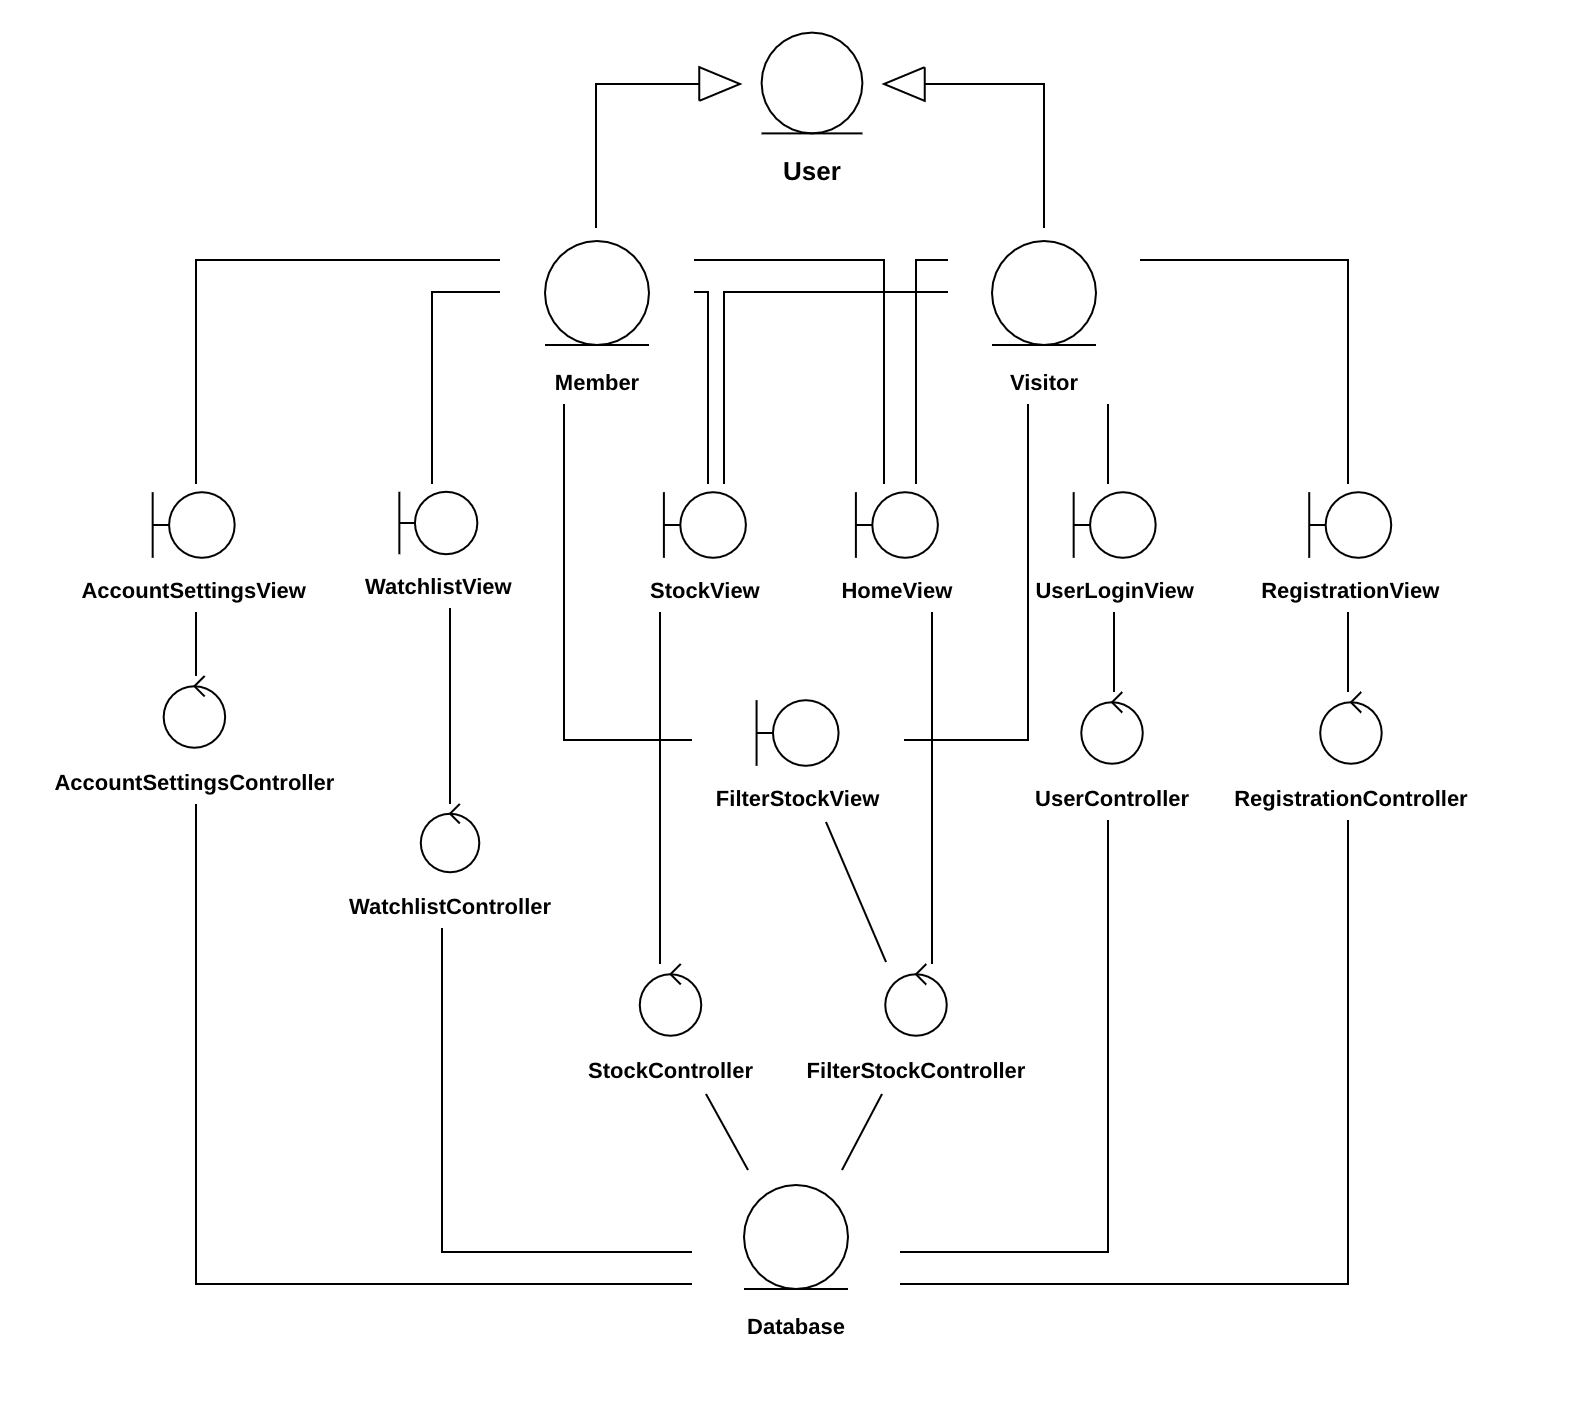
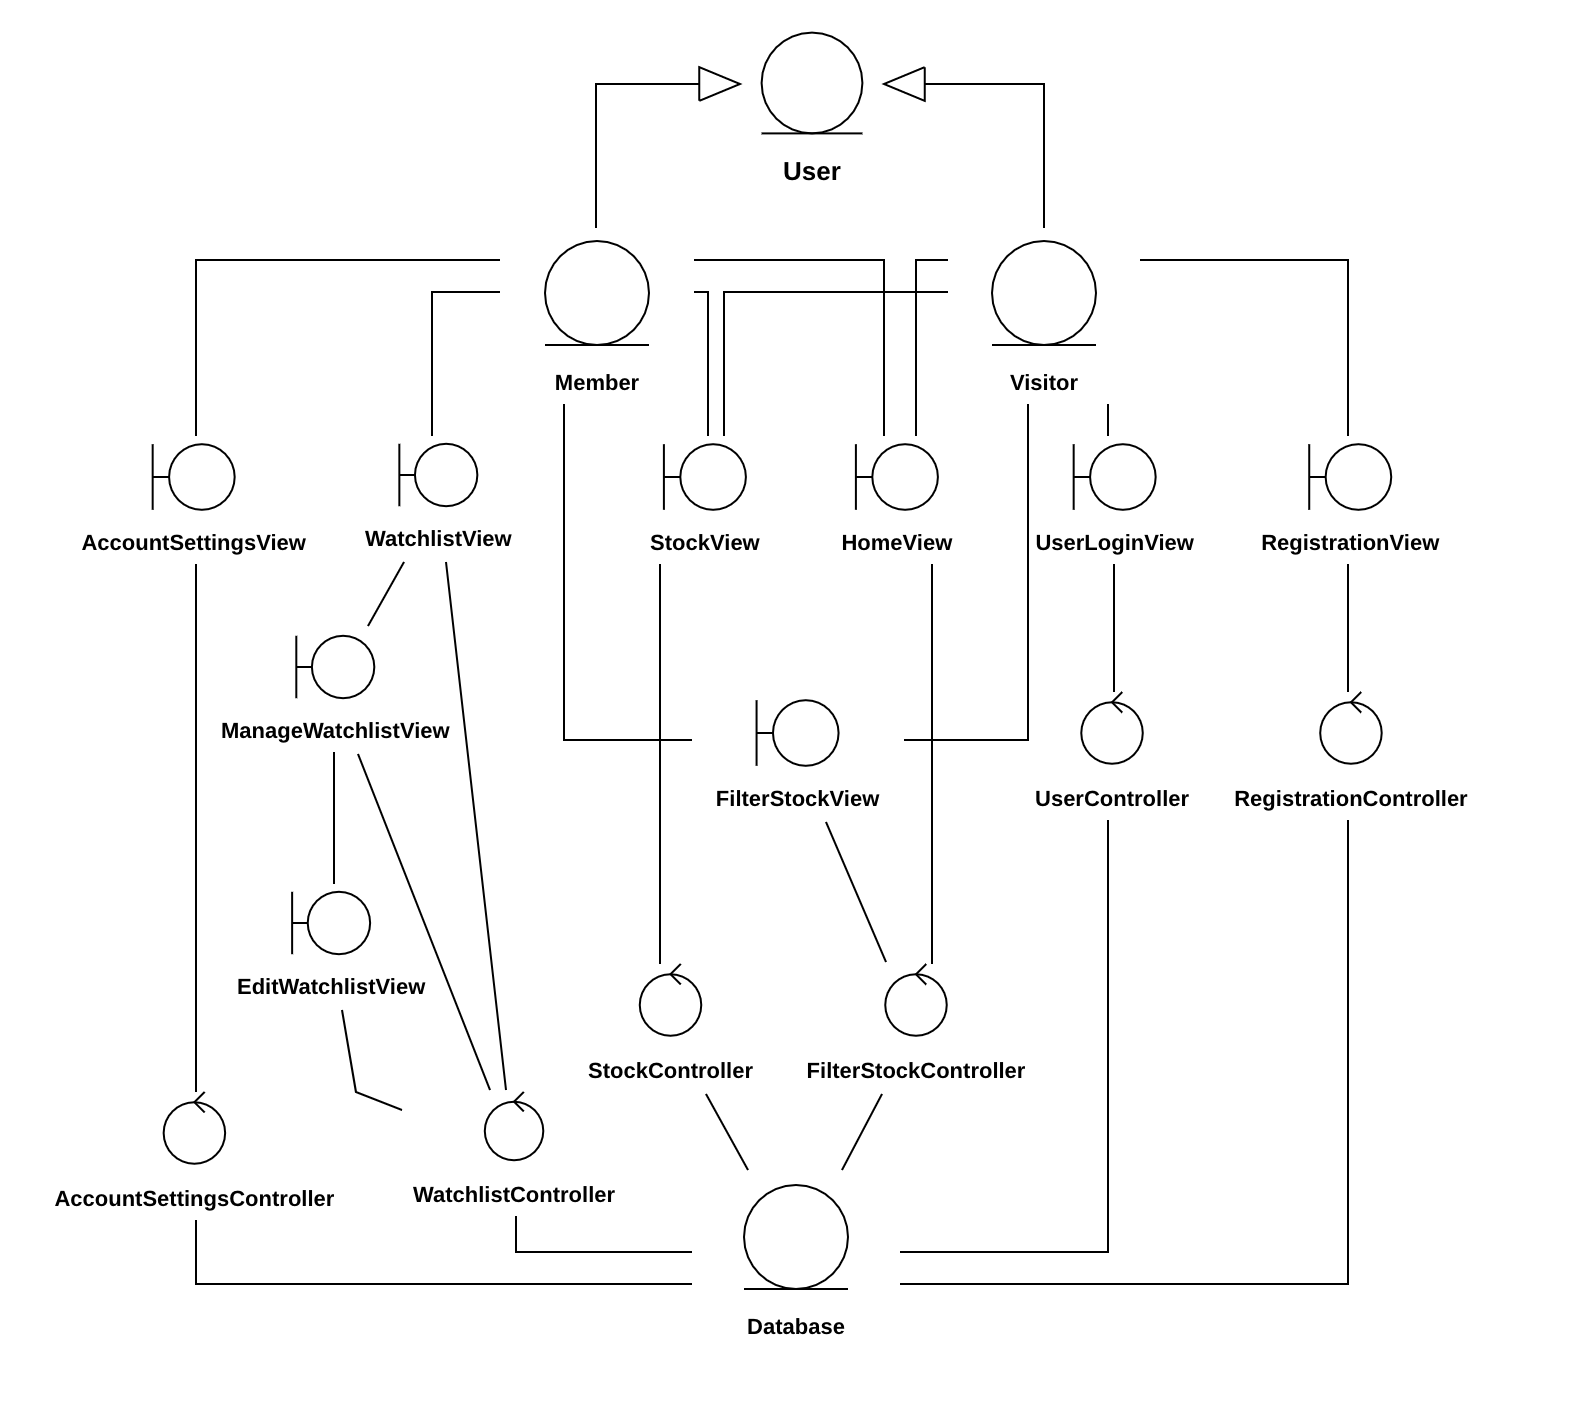
Updates

diff --git a/docs/design.html b/docs/design.html
@@ -34,45 +34,45 @@
 
            <h3>Table of Contents</h3>
             <ul>
-                <li><a href="#1.0.0">Introduction</a></li>
+                <li><a href="#1.0.0">(1.0) Introduction</a></li>
                 <ul>
-                    <li><a href="#1.1.0">Purpose</a></li>
-                    <li><a href="#1.2.0">Scope</a></li>
-                    <li><a href="#1.3.0">Definitions</a></li>
-                    <li><a href="#1.4.0">References</a></li>
+                    <li><a href="#1.1.0">(1.1) Purpose</a></li>
+                    <li><a href="#1.2.0">(1.2) Scope</a></li>
+                    <li><a href="#1.3.0">(1.3) Definitions</a></li>
+                    <li><a href="#1.4.0">(1.4) References</a></li>
                 </ul>
-                <li><a href="#2.0.0">Decomposition Description</a>
+                <li><a href="#2.0.0">(2.0) Decomposition Description</a>
                 <ul>
-                    <li><a href="#2.1.0">Software Architecture</a></li>
+                    <li><a href="#2.1.0">(2.1) Software Architecture</a></li>
                     <ul>
-                        <li><a href="#2.1.1">Package Diagram</a></li>
-                        <li><a href="#2.1.2">Subsystems</a></li>
+                        <li><a href="#2.1.1">(2.1.1) Package Diagram</a></li>
+                        <li><a href="#2.1.2">(2.1.2) Subsystems</a></li>
                     </ul>
-                    <li><a href="#2.2.0">Concurrent Process Decomposition</a></li>
+                    <li><a href="#2.2.0">(2.2) Concurrent Process Decomposition</a></li>
                 </ul>
-                <li><a href="#3.0.0">Interface Description</a>
+                <li><a href="#3.0.0">(3.0) Interface Description</a>
                 <ul>
-                    <li><a href="#3.1.0">Module Interface</a></li>
+                    <li><a href="#3.1.0">(3.1) Module Interface</a></li>
                     <ul>
-                        <li><a href="#3.1.1">HomeView</a></li>
-                        <li><a href="#3.1.2">TrendingView</a></li>
-                        <li><a href="#3.1.3">UserLoginView</a></li>
-                        <li><a href="#3.1.4">RegistrationView</a></li>
-                        <li><a href="#3.1.5">AccountSettingsView</a></li>
-                        <li><a href="#3.1.6">WatchlistView</a></li>
-                        <li><a href="#3.1.7">ManageWatchlistView</a></li>
-                        <li><a href="#3.1.8">EditWatchlistView</a></li>
-                        <li><a href="#3.1.9">StockView</a></li>
-                        <li><a href="#3.1.10">FilterStockView</a></li>
+                        <li><a href="#3.1.1">(3.1.1) HomeView</a></li>
+                        <li><a href="#3.1.2">(3.1.2) TrendingView</a></li>
+                        <li><a href="#3.1.3">(3.1.3) UserLoginView</a></li>
+                        <li><a href="#3.1.4">(3.1.4) RegistrationView</a></li>
+                        <li><a href="#3.1.5">(3.1.5) AccountSettingsView</a></li>
+                        <li><a href="#3.1.6">(3.1.6) WatchlistView</a></li>
+                        <li><a href="#3.1.7">(3.1.7) ManageWatchlistView</a></li>
+                        <li><a href="#3.1.8">(3.1.8) EditWatchlistView</a></li>
+                        <li><a href="#3.1.9">(3.1.9) StockView</a></li>
+                        <li><a href="#3.1.10">(3.1.10) FilterStockView</a></li>
                     </ul>
                 </ul>
-                <li><a href="#4.0.0">Detailed Design</a>
+                <li><a href="#4.0.0">(4.0) Detailed Design</a>
                 <ul>
-                    <li><a href="#4.1.0">Module Detailed Design</a></li>
-                    <li><a href="#4.2.0">Documentation</a></li>
+                    <li><a href="#4.1.0">(4.1) Module Detailed Design</a></li>
+                    <li><a href="#4.2.0">(4.2) Documentation</a></li>
                     <ul>
-                        <li><a href="#4.2.1">Front End</a></li>
-                        <li><a href="#4.2.2">Back End</a></li>
+                        <li><a href="#4.2.1">(4.2.1) Front End</a></li>
+                        <li><a href="#4.2.2">(4.2.2) Back End</a></li>
                     </ul>
                 </ul>  
                 <li><a href="#Change-History">Change History</a></li>

diff --git a/docs/analysis.html b/docs/analysis.html
@@ -32,33 +32,33 @@
 
            <h3>Table of Contents</h3>
             <ul>
-                <li><a href="#1.0.0">Introduction</a></li>
+                <li><a href="#1.0.0">(1.0) Introduction</a></li>
                 <ul>
-                    <li><a href="#1.1.0">Project Summary</a></li>
-                    <li><a href="#1.2.0">Purpose</a></li>
-                    <li><a href="#1.3.0">References</a></li>
+                    <li><a href="#1.1.0">(1.1) Project Summary</a></li>
+                    <li><a href="#1.2.0">(1.2) Purpose</a></li>
+                    <li><a href="#1.3.0">(1.3) References</a></li>
                 </ul>
-                <li><a href="#2.0.0">Object Classification</a>
+                <li><a href="#2.0.0">(2.0) Object Classification</a>
                 <ul>
-                    <li><a href="#2.1.0">Entity Objects</a></li>
-                    <li><a href="#2.2.0">Boundary Objects</a></li>
-                    <li><a href="#2.3.0">Control Objects</a></li>
+                    <li><a href="#2.1.0">(2.1) Entity Objects</a></li>
+                    <li><a href="#2.2.0">(2.2) Boundary Objects</a></li>
+                    <li><a href="#2.3.0">(2.3) Control Objects</a></li>
                 </ul>
-                <li><a href="#3.0.0">Diagrams</a>
+                <li><a href="#3.0.0">(3.0) Diagrams</a>
                 <ul>
-                    <li><a href="#3.1.0">Boundary/Control/Entity Diagram</a></li>
-                    <li><a href="#3.2.0">State Diagrams</a></li>
+                    <li><a href="#3.1.0">(3.1) Boundary/Control/Entity Diagram</a></li>
+                    <li><a href="#3.2.0">(3.2) State Diagrams</a></li>
                     <ul>
-                        <li><a href="#3.2.1">Account Settings Controller Class</a></li>
-                        <li><a href="#3.2.2">Filter Stock Controller Class</a></li>
-                        <li><a href="#3.2.3">Stock Controller Class</a></li>
-                        <li><a href="#3.2.4">User Controller Class</a></li>
-                        <li><a href="#3.2.5">Watchlist Controller Class</a></li>
-                        <li><a href="#3.2.6">Registration Controller Class</a></li>
+                        <li><a href="#3.2.1">(3.2.1) Account Settings Controller Class</a></li>
+                        <li><a href="#3.2.2">(3.2.2) Filter Stock Controller Class</a></li>
+                        <li><a href="#3.2.3">(3.2.3) Stock Controller Class</a></li>
+                        <li><a href="#3.2.4">(3.2.4) User Controller Class</a></li>
+                        <li><a href="#3.2.5">(3.2.5) Watchlist Controller Class</a></li>
+                        <li><a href="#3.2.6">(3.2.6) Registration Controller Class</a></li>
                     </ul>
-                    <li><a href="#3.3.0">Class Diagram</a></li>
+                    <li><a href="#3.3.0">(3.3) Class Diagram</a></li>
                 </ul>
-                <li><a href="#4.0.0">Non-functional Attributes</a>
+                <li><a href="#4.0.0">(4.0) Non-functional Attributes</a>
                 <li><a href="#Change-History">Change History</a></li>
             </ul>
 
@@ -379,6 +379,15 @@
                     <tr>
                         <td>March 17, 2021</td>
                         <td>Revised Class Diagram</td>
+                        <td>
+                            <ul style="list-style-type:none; padding-left: 0px;">
+                                <li>Roy Ceyleon</li>
+                            </ul>
+                        </td>
+                    </tr>
+                    <tr>
+                        <td>March 26, 2021</td>
+                        <td>Revised Boundary/Control/Entity Diagram</td>
                         <td>
                             <ul style="list-style-type:none; padding-left: 0px;">
                                 <li>Roy Ceyleon</li>

diff --git a/docs/requirements.html b/docs/requirements.html
@@ -53,37 +53,37 @@
             </table>
             <h3>Table of Contents</h3>
             <ul>
-                <li><a href="#1.0.0">Introduction</a></li>
+                <li><a href="#1.0.0">(1.0) Introduction</a></li>
                 <ul>
-                    <li><a href="#1.1.0">Project Summary</a></li>
-                    <li><a href="#1.2.0">Purpose</a></li>
-                    <li><a href="#1.3.0">Scope</a></li>
-                    <li><a href="#1.4.0">Definitions & Abbreviations</a></li>
-                    <li><a href="#1.5.0">References</a></li>
-                    <li><a href="#1.6.0">Overview</a></li>
+                    <li><a href="#1.1.0">(1.1) Project Summary</a></li>
+                    <li><a href="#1.2.0">(1.2) Purpose</a></li>
+                    <li><a href="#1.3.0">(1.3) Scope</a></li>
+                    <li><a href="#1.4.0">(1.4) Definitions & Abbreviations</a></li>
+                    <li><a href="#1.5.0">(1.5) References</a></li>
+                    <li><a href="#1.6.0">(1.6) Overview</a></li>
                 </ul>
-                <li><a href="#2.0.0">Overall Description</a>
+                <li><a href="#2.0.0">(2.0) Overall Description</a>
                 <ul>
-                    <li><a href="#2.1.0">Product Perspective</a></li>
-                    <li><a href="#2.2.0">Product Functions</a></li>
-                    <li><a href="#2.3.0">User Characteristics</a></li>
-                    <li><a href="#2.4.0">Constraints</a></li>
-                    <li><a href="#2.5.0">Assumptions and Dependencies</a></li>
+                    <li><a href="#2.1.0">(2.1) Product Perspective</a></li>
+                    <li><a href="#2.2.0">(2.2) Product Functions</a></li>
+                    <li><a href="#2.3.0">(2.3) User Characteristics</a></li>
+                    <li><a href="#2.4.0">(2.4) Constraints</a></li>
+                    <li><a href="#2.5.0">(2.5) Assumptions and Dependencies</a></li>
                 </ul>
 
-                <li><a href="#3.0.0">Specific Requirements</a>
+                <li><a href="#3.0.0">(3.0) Specific Requirements</a>
                 <ul>
-                    <li><a href="#3.1.0">External Interfaces</a></li>
-                    <li><a href="#3.2.0">Functions</a></li>
-                    <li><a href="#3.3.0">Database</a></li>
-                    <li><a href="#3.4.0">Performance Requirements</a></li>
-                    <li><a href="#3.5.0">Software System Attributes</a></li>
+                    <li><a href="#3.1.0">(3.1) External Interfaces</a></li>
+                    <li><a href="#3.2.0">(3.2) Functions</a></li>
+                    <li><a href="#3.3.0">(3.3) Database</a></li>
+                    <li><a href="#3.4.0">(3.4) Performance Requirements</a></li>
+                    <li><a href="#3.5.0">(3.5) Software System Attributes</a></li>
                     <ul>
-                        <li><a href="#3.5.1">Security</a></li>
-                        <li><a href="#3.5.2">Portability</a></li>
-                        <li><a href="#3.5.3">Availability and Reliability</a></li>
+                        <li><a href="#3.5.1">(3.5.1) Security</a></li>
+                        <li><a href="#3.5.2">(3.5.2) Portability</a></li>
+                        <li><a href="#3.5.3">(3.5.3) Availability and Reliability</a></li>
                     </ul>
-                    <li><a href="#3.6.0">Actors and Use Cases</a></li>
+                    <li><a href="#3.6.0">(3.6) Actors and Use Cases</a></li>
                 </ul>
 
                 <li><a href="#Change-History">Change History</a></li>

diff --git a/docs/spmp.html b/docs/spmp.html
@@ -54,36 +54,36 @@
         </table>
         <h3>Table of Contents</h3>
         <ul>
-            <li><a href="#1.0.0">Overview</a></li>
+            <li><a href="#1.0.0">(1.0) Overview</a></li>
             <ul>
-                <li><a href="#1.1.0">Project Summary</a></li>
+                <li><a href="#1.1.0">(1.1) Project Summary</a></li>
                 <ul>
-                    <li><a href="#1.1.1">Project Deliverables</a></li>
-                    <li><a href="#1.1.2">Assumptions and Constraints</a></li>
+                    <li><a href="#1.1.1">(1.1.1) Project Deliverables</a></li>
+                    <li><a href="#1.1.2">(1.1.2) Assumptions and Constraints</a></li>
                 </ul>
-                <li><a href="#1.2.0">Evolution of the SPMP</a></li>
+                <li><a href="#1.2.0">(1.2) Evolution of the SPMP</a></li>
             </ul>
-            <li><a href="#2.0.0">Definitions</a></li>
-            <li><a href="#3.0.0">References</a></li>
-            <li><a href="#4.0.0">Project Organization</a></li>
+            <li><a href="#2.0.0">(2.0) Definitions</a></li>
+            <li><a href="#3.0.0">(3.0) References</a></li>
+            <li><a href="#4.0.0">(4.0) Project Organization</a></li>
             <ul>
-                <li><a href="#4.1.0">Roles and Responsibilities</a></li>
+                <li><a href="#4.1.0">(4.1) Roles and Responsibilities</a></li>
             </ul>
-            <li><a href="#5.0.0">Managerial Process</a></li>
+            <li><a href="#5.0.0">(5.0) Managerial Process</a></li>
             <ul>
-                <li><a href="#5.1.0">Objectives and Priorities</a></li>
-                <li><a href="#5.2.0">Monitoring and Reporting Mechanisms</a></li>
+                <li><a href="#5.1.0">(5.1) Objectives and Priorities</a></li>
+                <li><a href="#5.2.0">(5.2) Monitoring and Reporting Mechanisms</a></li>
             </ul>
-            <li><a href="#6.0.0">Technical Process</a></li>
+            <li><a href="#6.0.0">(6.0) Technical Process</a></li>
             <ul>
-                <li><a href="#6.1.0">Process Model</a></li>
-                <li><a href="#6.2.0">Methods, Tools, and Techniques</a></li>
-                <li><a href="#6.3.0">Infrastructure Plan</a></li>
+                <li><a href="#6.1.0">(6.1) Process Model</a></li>
+                <li><a href="#6.2.0">(6.2) Methods, Tools, and Techniques</a></li>
+                <li><a href="#6.3.0">(6.3) Infrastructure Plan</a></li>
             </ul>
-            <li><a href="#7.0.0">Supporting Process</a></li>
+            <li><a href="#7.0.0">(7.0) Supporting Process</a></li>
             <ul>
-                <li><a href="#7.1.0">Quality Assurance</a></li>
-                <li><a href="#7.2.0">Documentation</a></li>
+                <li><a href="#7.1.0">(7.1) Quality Assurance</a></li>
+                <li><a href="#7.2.0">(7.2) Documentation</a></li>
             </ul>
             <li><a href="#Change-History">Change History</a></li>
         </ul>

diff --git a/css/styles.css b/css/styles.css
@@ -856,4 +856,3 @@ textarea {
 	color: #ff0000;
 	vertical-align: top;
 }
-
